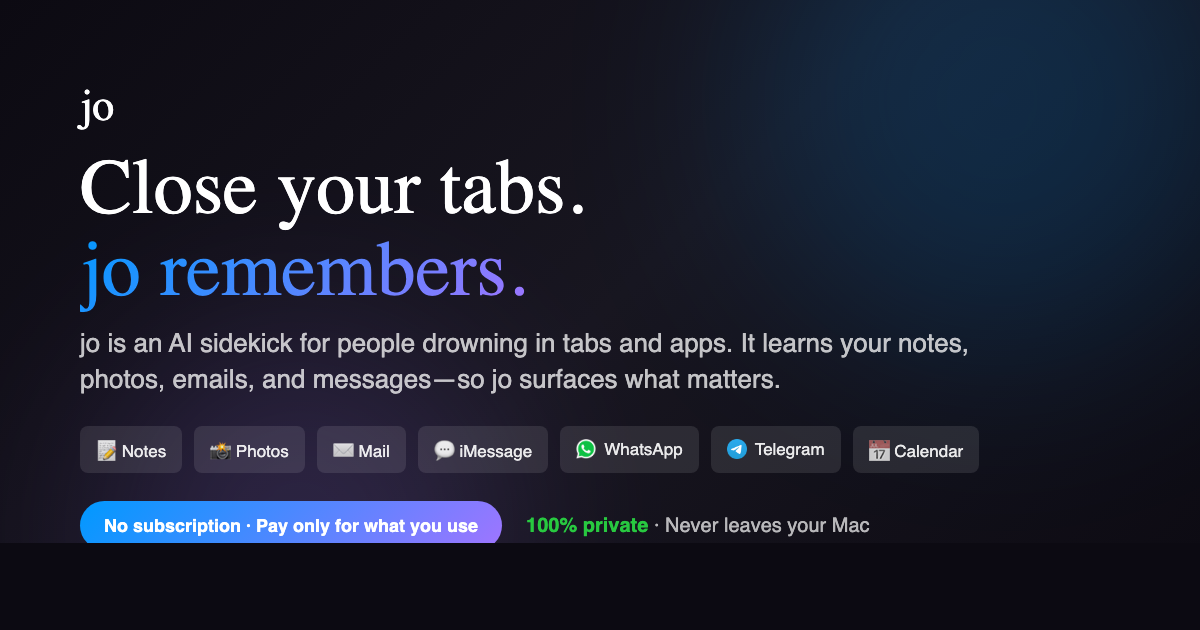
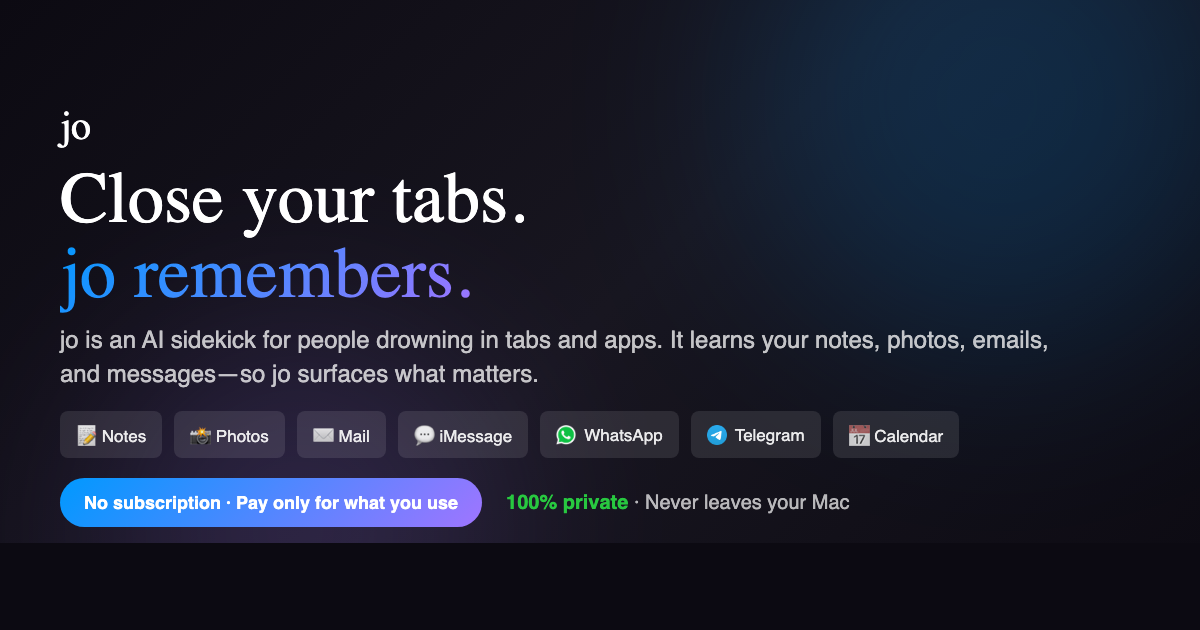
OG image: reduce margins, fit content better

diff --git a/og-image-v7.html b/og-image-v7.html
@@ -29,7 +29,7 @@
             display: flex;
             flex-direction: column;
             justify-content: center;
-            padding: 50px 80px;
+            padding: 40px 60px;
             overflow: hidden;
         }
 
@@ -64,19 +64,19 @@
 
         .logo {
             font-family: 'DM Serif Display', serif;
-            font-size: 44px;
+            font-size: 40px;
             font-weight: 400;
             color: white;
-            margin-bottom: 16px;
+            margin-bottom: 12px;
         }
 
         .headline {
             font-family: 'DM Serif Display', serif;
-            font-size: 78px;
+            font-size: 72px;
             font-weight: 400;
             color: white;
             line-height: 1.05;
-            margin-bottom: 14px;
+            margin-bottom: 12px;
         }
 
         .headline .gradient {
@@ -88,18 +88,18 @@
 
         .tagline {
             font-family: 'Outfit', sans-serif;
-            font-size: 26px;
+            font-size: 24px;
             color: rgba(255, 255, 255, 0.75);
             line-height: 1.4;
-            margin-bottom: 28px;
-            max-width: 900px;
+            margin-bottom: 20px;
+            max-width: 1000px;
         }
 
         .app-badges {
             display: flex;
             flex-wrap: wrap;
             gap: 12px;
-            margin-bottom: 28px;
+            margin-bottom: 20px;
         }
 
         .app-badge {
